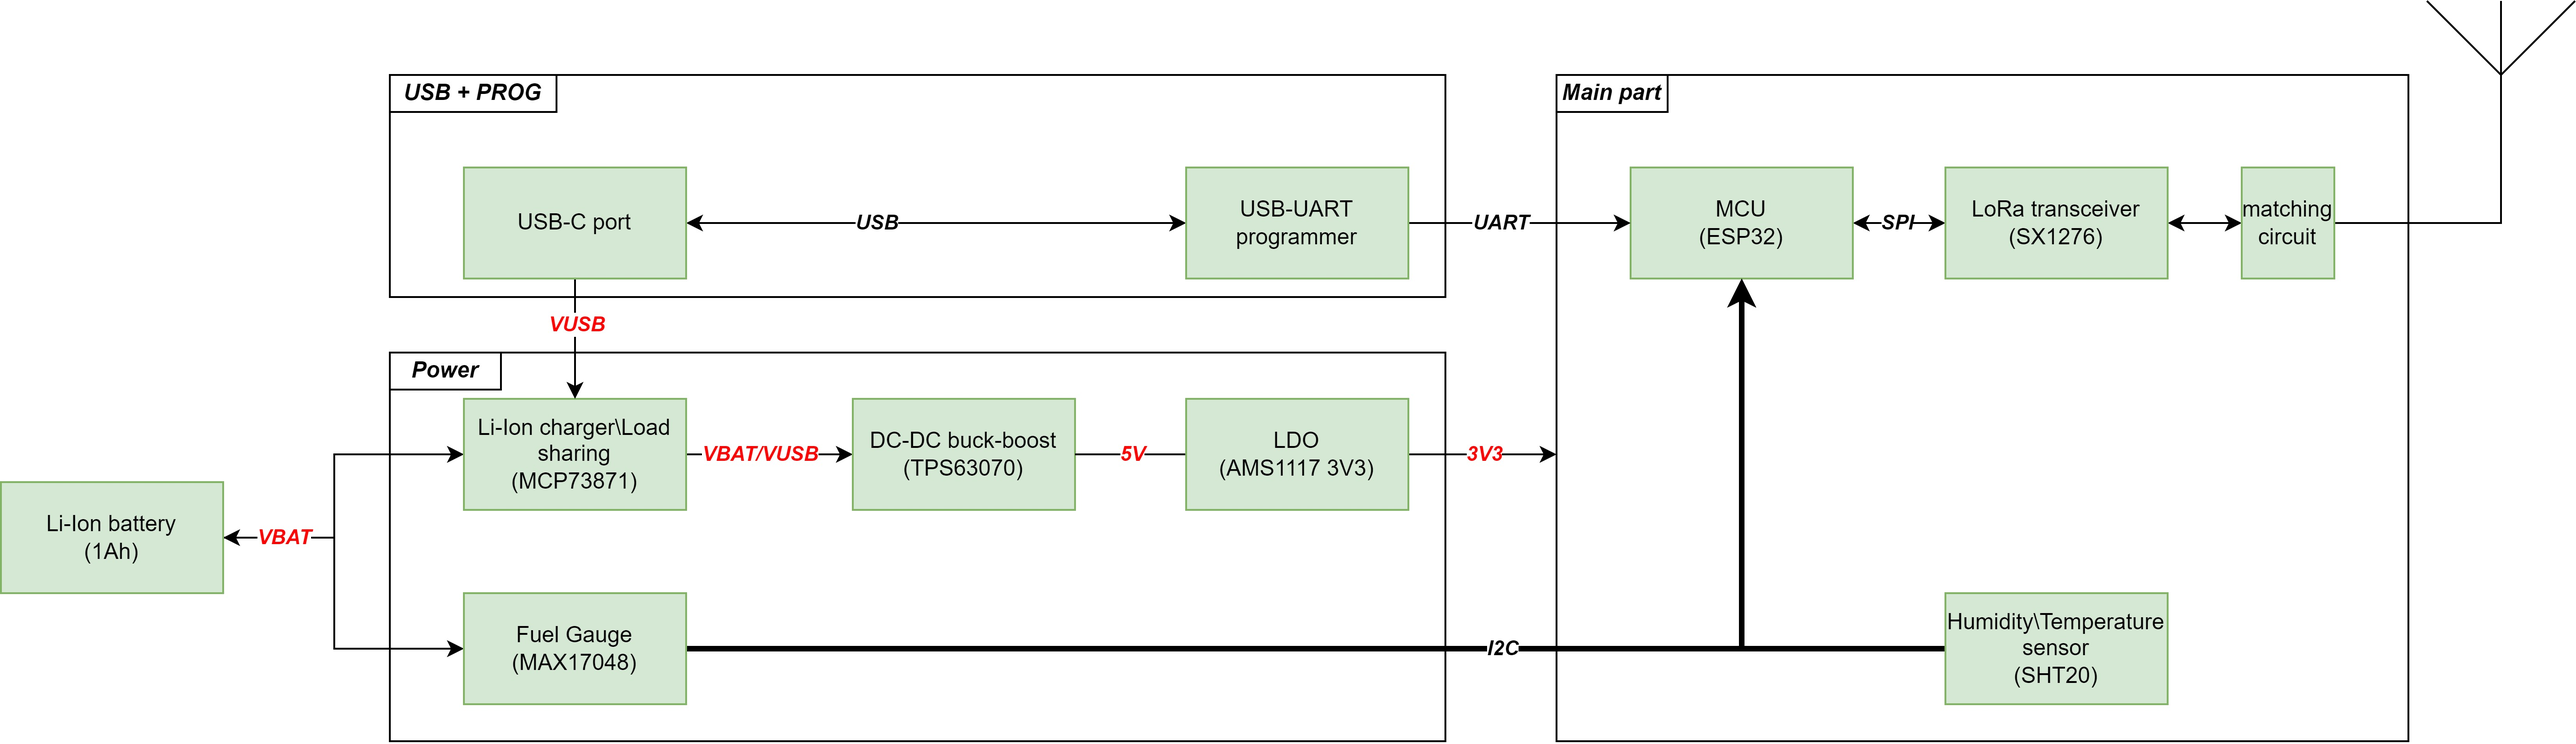
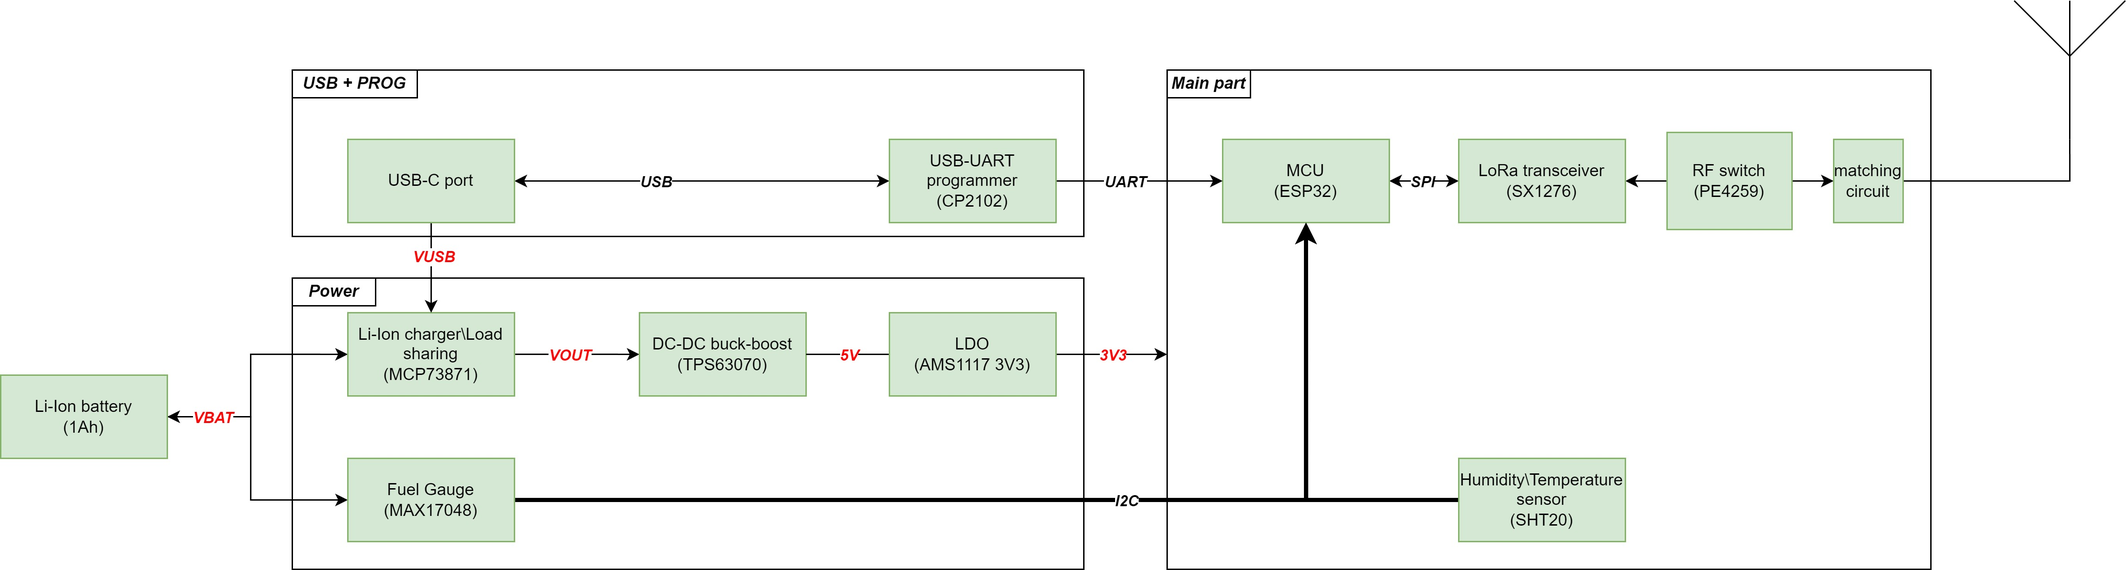
Update readme and architecture scheme

diff --git a/README.md b/README.md
@@ -11,7 +11,8 @@ The architecture of the project is described with the diagram below (lora_sensor
 
 The LoRa Sensor Project is designed to create a network of low-power, long-range sensors for environmental monitoring. 
 The project aims to leverage LoRa technology to enable efficient data collection from remote locations, 
-providing real-time insights into various environmental parameters such as temperature and humidity.
+providing real-time insights into various environmental parameters such as temperature and humidity. The LoRa modem works
+within 433 Mhz LF baseband.
 
 It is developed simply for the educational purpose, aiming to provide students and hobbyists with hands-on experience in 
 building and managing a LoRa-based sensor network.
@@ -30,6 +31,7 @@ The following key components were used:
 - MCP73871-2CAI_ML - Li-Ion/Li-Polymer Battery Charger to manage battery charging and protection
 - SHT20 - Temperature and Humidity Sensor to measure environmental conditions
 - SX1276IMLTRT - LoRa Transceiver Module to enable long-range wireless communication
+- PE4259 - RF switch for LoRa antenna
 - TPS63070RNMR - Buck-Boost Converter to manage power supply and ensure stable operation
 - ESP32 - Microcontroller to process sensor data and manage communication
 - CP2102 - USB to UART Bridge Controller to enable serial communication between the microcontroller and a computer. Also, acts as a programmer for the microcontroller.
